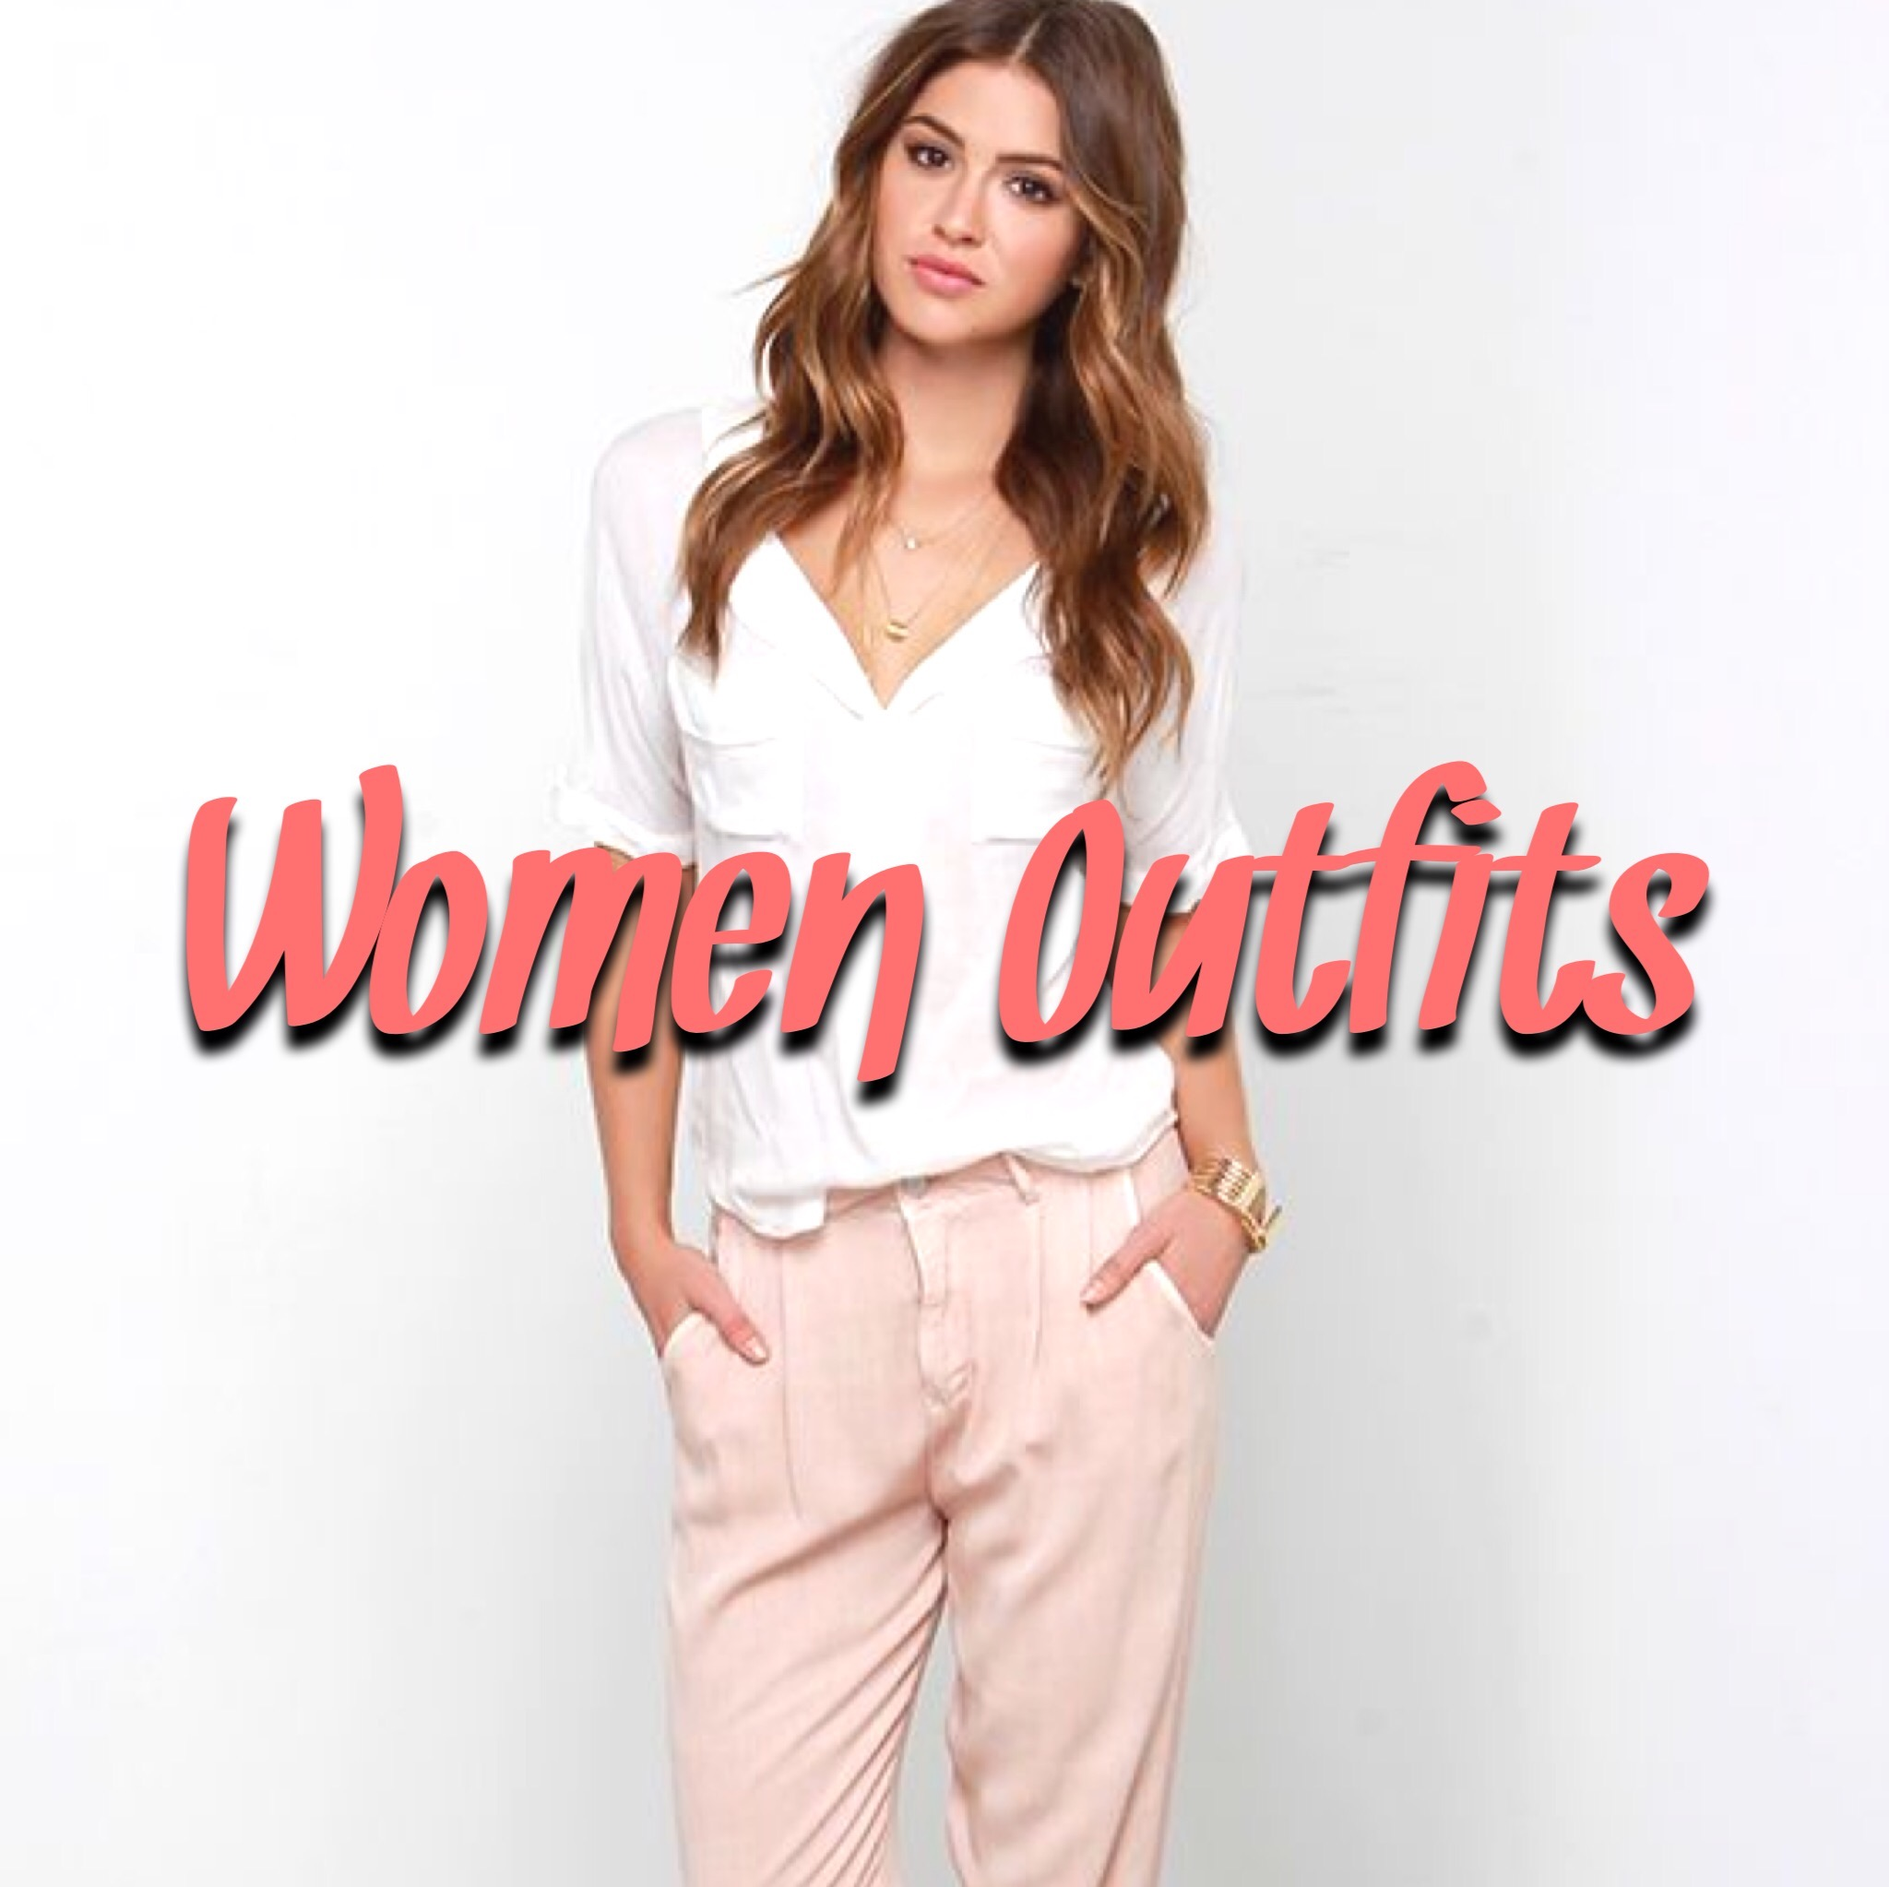
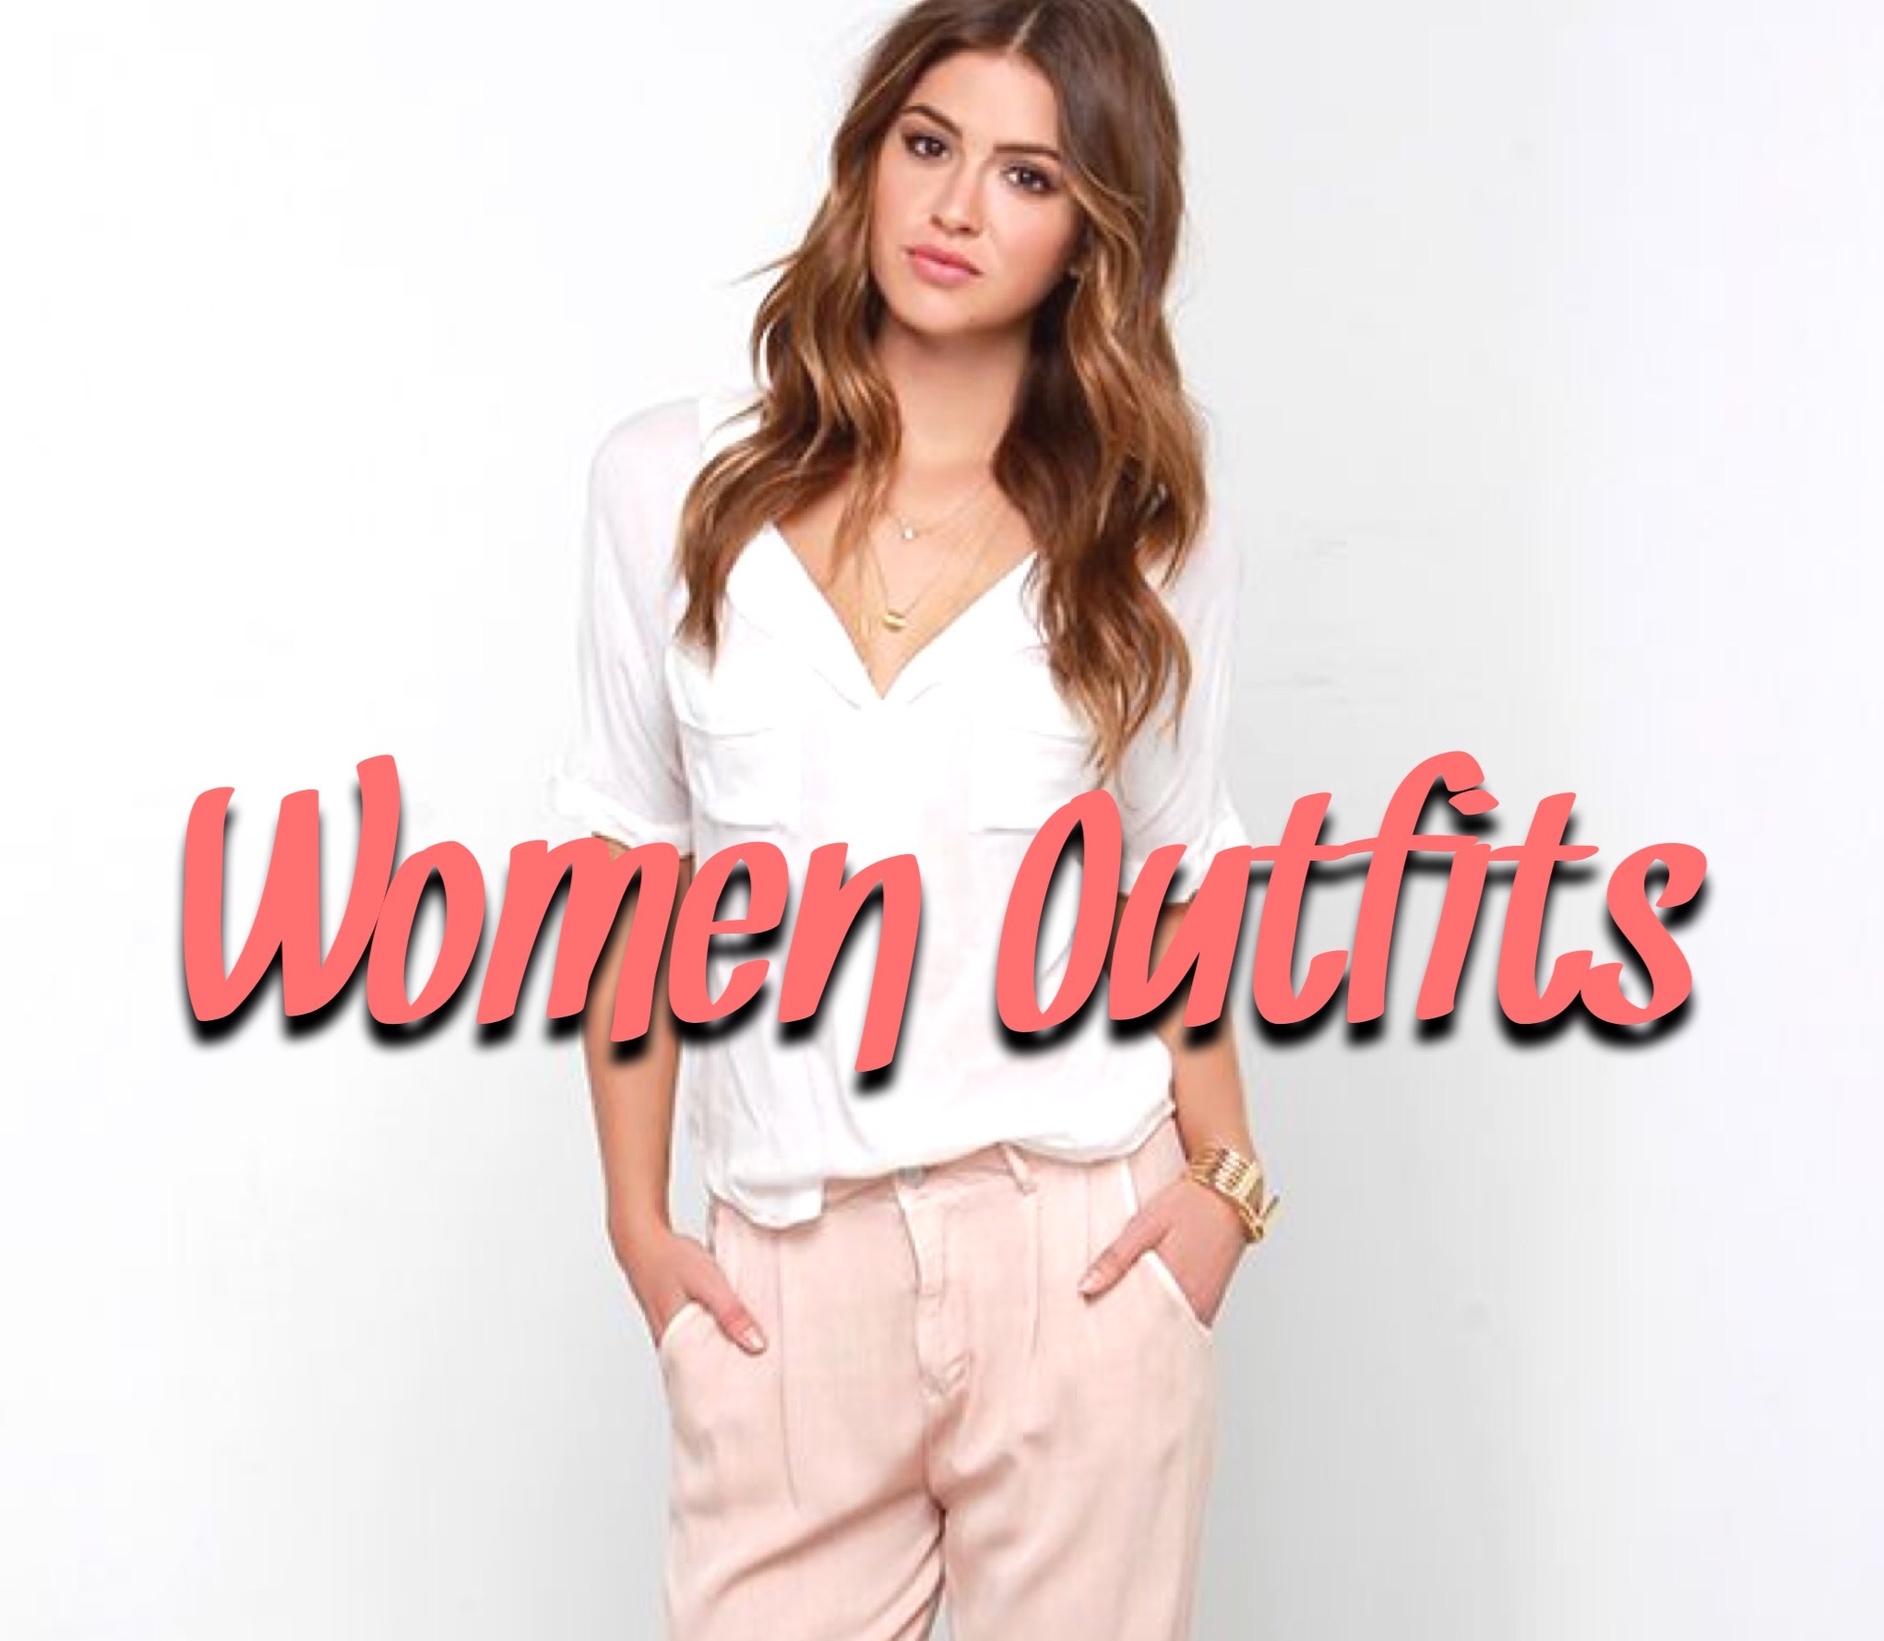
edited the about us page

Changed region(s): [[0.0926, 0.0618, 0.9256, 1.0], [0.4628, 0.0, 0.5553, 0.0309], [0.5862, 0.0, 0.617, 0.0309]]

diff --git a/html/about_us.html b/html/about_us.html
@@ -1,0 +1,82 @@
+<DOCTYPE ! html>
+<html>
+<head>  
+	<link rel="stylesheet" type="text/css" href="about_us.css">
+	<link href="https://fonts.googleapis.com/css?family=Lobster|Pattaya" rel="stylesheet">
+</head>
+<body>
+	
+
+<h1>About us/Contact us</h1>
+
+<h2>Maelani Lacandazon </h2>
+	<p> My name is Maelani Lacandazon but I go by Mae. I am a rising senior at Leadership Public School in Hayward, CA. I am 16 years old about to be 17 on September 2nd. I play two sports which is basketball and volleyball. I am the oldest of my 4 other siblings. Things I like to do for fun is go longboarding around my neighborhood or anywhere we go to, swimming, hanging out with friends/family and traveling. I heard about the Girls Who Code program by my mom's friend who's daughter did the program last year and recommended it to me. Adding on, I also heard about this program from my advisor who gave us a list of summer programs that we can do over the summer. </p>
+	<p> email: maemaelacan@gmail.com </p>
+	<div class="row">
+  <div class="col-md-5">
+    <a href="https://www.instagram.com/maelani.alyssa/" class="thumbnail" target="_blank">
+  	  <img src="instalogo.png"> 
+    </a>
+     
+    <a href="https://twitter.com/maemaelacan?lang=en" class="thumbnail" target="_blank">
+      <img src="twitterlogo.png">
+    </a>
+    <a href="https://www.linkedin.com/in/maelani-l-05a752122?authType=NAME_SEARCH&authToken=mBJ2&locale=en_US&trk=tyah&trkInfo=clickedVertical%3Amynetwork%2CclickedEntityId%3A509466310%2CauthType%3ANAME_SEARCH%2Cidx%3A1-2-2%2CtarId%3A1470240701939%2Ctas%3Ama" class="thumbnail" target="_blank">
+      <img src="linkedin.png">
+    </a>
+    <a href="https://www.facebook.com/maelani.lacandazon?fref=ts" class="thumbnail" target="_blank">
+      <img src="fblogo.jpg">
+    </a>
+  </div>
+
+<h2>Alexandra Martin</h2>
+	<p>My name is Alexandra Martin but I go by Alexa. I'm going to be a rising junior at Lighthouse Community Charter School which is located in Oakland and am currently 15 years old. I'm part of a family of 5 which includes myself, my two siblings, and my parents. I heard abo
+
+
+
+
+		ut GWC through my sister because she attended this program a couple years ago. I decided to apply because my sister recommended it to me and I wanted to explore my interest in STEM.</p>
+	<p> email: maralexatin@gmail.com</p>
+	<div class="row">
+  <div class="col-md-4"> 
+    <a href="https://www.instagram.com/alexa_martian/" class="thumbnail" target="_blank">
+      <img src="instalogo.png">
+    </a>
+    <a href="https://www.facebook.com/alexa.martin.505" class="thumbnail" target="_blank">
+      <img src="fblogo.jpg">
+    </a>
+    <a href="https://www.linkedin.com/in/alexandra-m-39b752122?trk=nav_responsive_tab_profile_pic" class="thumbnail" target="_blank">
+      <img src="linkedin.png">
+    </a>
+  </div>
+<h2>Mallory Mallari</h2>
+	<p> My name is Mallory Mallari.....</p>
+	<p> email: malloryjmallari@gmail.com</p>
+
+<div class="row">
+  <div class="col-md-5"> 
+    <a href="https://www.instagram.com/malluhhrie/" class="thumbnail" target="_blank">
+      <img src="instalogo.png">
+    </a>
+    <a href="https://www.linkedin.com/in/mallory-m-655191107?authType=NAME_SEARCH&authToken=lEOM&locale=en_US&trk=tyah&trkInfo=clickedVertical%3Amynetwork%2CclickedEntityId%3A451321697%2CauthType%3ANAME_SEARCH%2Cidx%3A1-3-3%2CtarId%3A1470205757427%2Ctas%3Ama" class="thumbnail" target="_blank">
+      <img src="linkedin.png">
+    </a>
+     <a href="https://www.facebook.com/profile.php?id=100006233235587&fref=ts" class="thumbnail" target="_blank">
+      <img src="fblogo.jpg">
+    </a>
+     <a href="https://twitter.com/mallorymallari" class="thumbnail" target="_blank">
+      <img src="twitterlogo.png">
+    </a>
+  </div>
+<h2>Daisy Juarez</h2>
+	<p>My name is Daisy Juarez, i am 16 years old, and I will be a junior at Monterey Bay Academy.  I found out about GWC by searching up coding summer programs online.
+	<p>email: daisyjuarez26@yahoo.com</p>
+	<div class="row">
+  <div class="col-md-2"> 
+    <a href="daisyjuarez26@yahoo.com" class="thumbnail">
+    </a>
+
+
+
+</body>
+</html>

diff --git a/where_to_shop.html b/where_to_shop.html
@@ -8,8 +8,7 @@
   <script src="https://ajax.googleapis.com/ajax/libs/jquery/1.12.4/jquery.min.js"></script>
   <script src="http://maxcdn.bootstrapcdn.com/bootstrap/3.3.6/js/bootstrap.min.js"></script>
   <script src="js/where_to_shop.js"></script>
-</head>
-  
+</head> 
 
 <body>
 <nav class="navbar navbar-default navbar-fixed-top">
@@ -44,49 +43,49 @@
 <h1> Where To Shop</h1>
 <div class="row">
   <div class="col-md-3"> 
-    <a href="http://www.forever21.com/" class="thumbnail">
+    <a href="http://www.forever21.com/" class="thumbnail" target="_blank">
       <img class="img-responsive" src="photos/alexas_images/F21.jpg" style="width:150px;height:150px">
     </a>
-    <a href="http://www.hm.com/us/" class="thumbnail">
+    <a href="http://www.hm.com/us/" class="thumbnail" target="_blank">
       <img src="photos/alexas_images/HM.jpg" style="width:150px;height:150px" >
     </a>
-    <a href="http://cottonon.com/US/" class="thumbnail">
+    <a href="http://cottonon.com/US/" class="thumbnail" target="_blank">
       <img src="photos/alexas_images/CottonOn.jpg" style="width:150px;height:150px">
     </a>
   </div>
 
     <div class="col-md-3" >
-      <a href="http://www.pacsun.com/" class="thumbnail">
+      <a href="http://www.pacsun.com/" class="thumbnail" target="_blank">
         <img src="photos/alexas_images/PacSunLogo.jpg" style="width:150px;height:150px" >
       </a> 
-      <a href="https://www.missguidedus.com/" class="thumbnail">
+      <a href="https://www.missguidedus.com/" class="thumbnail" target="_blank">
         <img src="photos/alexas_images/missguided.jpg" style="width:150px;height:150px">
       </a> 
-      <a href=" http://www.menswearhouse.com/" class="thumbnail">
+      <a href=" http://www.menswearhouse.com/" class="thumbnail" target="_blank">
         <img src="photos/alexas_images/MensWearhouse.jpeg" style="width:150px;height:150px" >
       </a>  
     </div>
       
     <div class="col-md-3">
-      <a href="http://www.gap.com/" class="thumbnail">
+      <a href="http://www.gap.com/" class="thumbnail" target="_blank">
         <img src="photos/alexas_images/Gap.jpg" style="width:150px;height:150px">
       </a>
-      <a href="http://us.topman.com/?geoip=home" class="thumbnail">
+      <a href="http://us.topman.com/?geoip=home" class="thumbnail" target="_blank">
         <img src="photos/alexas_images/Topman.jpg" style="width:150px;height:150px">
       </a>
-      <a href="http://www.levi.com/US/en_US/" class="thumbnail">
+      <a href="http://www.levi.com/US/en_US/" class="thumbnail" target="_blank">
         <img src="photos/alexas_images/Levis.jpg" style="width:150px;height:150px">
       </a>
     </div>
 
     <div class="col-md-3">
-      <a href="http://www.oldnavy.com/" class="thumbnail">
+      <a href="http://www.oldnavy.com/" class="thumbnail" target="_blank">
         <img src="photos/alexas_images/OldNavy.jpg" style="width:150px;height:150px">
       </a>  
-      <a href="http://www.urbanoutfitters.com/urban/index.jsp" class="thumbnail">
+      <a href="http://www.urbanoutfitters.com/urban/index.jsp" class="thumbnail" target="_blank">
         <img src="photos/alexas_images/UO.jpg" style="width:150px;height:150px">
       </a>  
-      <a href="http://www1.macys.com/" class="thumbnail">
+      <a href="http://www1.macys.com/" class="thumbnail" target="_blank">
         <img src="photos/alexas_images/Macys.jpg" style="width:150px;height:150px">
       </a>
     </div>

diff --git a/lookbookmen.html b/lookbookmen.html
@@ -1,37 +1,57 @@
 <DOCTYPE! html>
 <html>
 <head>
-	<title>Weather To Wear.</title>
+	<title>Weather To Wear</title>
 	<meta name="viewport" content="width=device-width, initial-scale=1">
 	<link rel="stylesheet" href="http://maxcdn.bootstrapcdn.com/bootstrap/3.3.6/css/bootstrap.min.css">
   	<link rel="stylesheet" href="css/index.css"></link>
   	<script src="https://ajax.googleapis.com/ajax/libs/jquery/1.12.4/jquery.min.js"></script>
   	<script src="http://maxcdn.bootstrapcdn.com/bootstrap/3.3.6/js/bootstrap.min.js"></script>
 	<script src="js/catagories_men.js"></script>
-	<link rel="stylesheet" href="css/index.css"></link>
 </head>
-	
+	<link rel= "stylesheet" href="css/categories.css"></link>
+	<link rel="stylesheet" href="http://maxcdn.bootstrapcdn.com/bootstrap/3.3.6/css/bootstrap.min.css">
+	<script src="https://ajax.googleapis.com/ajax/libs/jquery/1.12.4/jquery.min.js"></script>
+  	<script src="http://maxcdn.bootstrapcdn.com/bootstrap/3.3.6/js/bootstrap.min.js"></script>
 <body>
-<h1> Lookbook </h1>
-	<img src ="photos/men/cover_image1.PNG" class="thumbnail">
-<table>
-	<tr>
-	<td><img src="photos/maelanis_images/men/image1.jpg" class="pictures"></td>
-	<td><p align="center"><img src="photos/maelanis_images/men/image2.jpg" class="pictures"></td>
-	<td align="right"><img src="photos/maelanis_images/men/image3.jpg" class="pictures"></td>
-	</tr>
-<table>
-	<tr>
-		<td><img src="photos/maelanis_images/men/image4.jpg" class="picture"></td>
-		<td><p align="center"><img src="photos/maelanis_images/men/image5.jpg" class="picture1"></td>
-		<td align="right"><img src="photos/maelanis_images/men/image6.jpg" class="picture"></td>
-	</tr>
-<table>
-	<tr>
-		<td><img src="photos/maelanis_images/men/image7.jpg" class="pics1"></td>
-		<td><p align="center"><img src="photos/maelanis_images/men/image8.jpg" class="pix1"></td>
-		<td align="right"><img src="photos/maelanis_images/men/image9.jpg" class="pix"></td>
-	</tr>
+
+<h1class=toptext<Lookbook</h1>
+
+
+<img src="photos/maelanis_images/men/cover_image1.png" class="mencover">
+
+<div class="container">
+   <button type="button" class="main1" data-toggle="collapse" data-target="#demo">Sunny</button>
+  <div id="demo1" class="collapse">
+
+  <img src="photos/maelanis_images/men/image1.jpg">
+  <img src="photos/maelanis_images/men/image2.jpg">
+  <img src="photos/maelanis_images/men/image3.jpg">
+   </div>
+</div>
+
+ <div class="container">
+   <button type="button" class="main1" data-toggle="collapse" data-target="#demo1">Rainy</button>
+  <div id="demo1" class="collapse">
+  <img src="photos/maelanis_images/men/image4.jpg">
+  <img src="photos/maelanis_images/men/image5.jpg">
+  <img src="photos/maelanis_images/men/image6.jpg">
+    </div>
+</div>
+
+ <div class="container">
+   <button type="button" class="main1" data-toggle="collapse" data-target="#demo2">Snowy</button>
+  <div id="demo2" class="collapse">
+  <img src="photos/maelanis_images/men/image7.jpg">
+  <img src="photos/maelanis_images/men/image8.jpg">
+  <img src="photos/maelanis_images/men/image9.jpg">
+    </div>
+</div>
+
+<div class="container">
+   <button type="button" class="main1" data-toggle="collapse" data-target="#demo2">Cloudy</button>
+  	<div id="demo2" class="collapse">
+  </div>
+  </div>		
 </body>
-
-
+</html>

diff --git a/lookbookwomen.html b/lookbookwomen.html
@@ -11,8 +11,9 @@
  
 <body>
 
-  <h1 class=toptext>Womans Outfits</h1>
+<h1 class=toptext>Womans Outfits</h1>
 
+<img src="photos/maelanis_images/women/women_cover_photo.jpeg" class="womencover">
 
  <div class="container">
    <button type="button" class="main1" data-toggle="collapse" data-target="#demo">Sunny Weather Outfits</button>
@@ -21,7 +22,9 @@
     <img src="photos/daisys_images/outfit1.jpg" />
     <img src="photos/daisys_images/outfit2.jpg" />
     <img src="photos/daisys_images/outfit3.jpg" />
-
+    <img src="images/personsunnyoutfit1.jpg" />
+    <img src="images/personsunnyoutfit2.jpg" />
+    <img src="images/personsunnyoutfit3.jpg" />
 
   <p class=suntext>Checkout these Sunny Weather Outfits</p>
   </div>
@@ -34,6 +37,9 @@
   <img src="photos/daisys_images/rainoutfit1.jpg">
   <img src="photos/daisys_images/rainoutfit2.jpg">
   <img src="photos/daisys_images/rainoutfit3.jpg">
+  <img src="images/personrainoutfit1.jpg" />
+  <img src="images/personrainoutfit2.jpg" />
+  <img src="images/personrainoutfit3.jpg" />
 
   <p class=suntext>Checkout these Rainy Weather Outfits</p>
    
@@ -46,6 +52,9 @@
   <img src="photos/daisys_images/snowoutfit1.jpg">
   <img src="photos/daisys_images/snowoutfit2.jpg">
   <img src="photos/daisys_images/snowoutfit3.jpg">
+  <img src="images/personsnowoutfit1.jpg" />
+  <img src="images/personsnowoutfit2.jpg" />
+  <img src="images/personsnowoutfit3.jpg" />
 
 
   <p class=suntext>Checkout these Snowy Weather Outfits</p>
@@ -60,6 +69,9 @@
   <img src="photos/daisys_images/cloudoutfit1.jpg">
   <img src="photos/daisys_images/cloudoutfit2.png">
   <img src="photos/daisys_images/cloudoutfit3.jpg">
+  <img src="images/personcloudoutfit1.jpg">
+  <img src="images/personcloudoutfit2.jpg">
+  <img src="images/personcloudoutfit3.jpg">
 
    
   <p class=suntext>Checkout these Cloudy Weather Outfits</p>

diff --git a/js/index.js b/js/index.js
@@ -7,6 +7,9 @@ $(document).ready(function(){
 			// debugger;
 			var temperature = data.main.temp;
 			var description = data.weather[0].description
+			// if (description == "mist") {
+			// 	$("body").append.url("http://openweathermap.org/img/w/10d.png")
+			// }
 			$("body").append("<div id ='weather'>" + "Temperature is:" + temperature + "</div>"); 
 			$("body").append("<div id='weather'>" + "It appears to be"  + description + "</div>");
 

diff --git a/css/categories.css b/css/categories.css
@@ -13,6 +13,16 @@
     cursor: pointer;*/*/*/
     background: purple;
  }
+ .womencover{
+    width:100%;
+    height:800px;
+ }
+ .mencover{
+    width:100%;
+    left: 50%;
+    margin-right: -50%;
+    transform: translate(-50%, -50%) }
+ }
 
  .collapse{
     position: center;

diff --git a/css/index.css b/css/index.css
@@ -60,9 +60,6 @@
     margin-bottom: 0;
     background-color: #2E294E;
     border: 0;
-    font-size: 11px !important;
-    letter-spacing: 4px;
-    opacity:0.9;
 }
 
 /* Add a gray color to all navbar links */

diff --git a/css/about_us.css b/css/about_us.css
@@ -1,0 +1,7 @@
+h1 {
+	text-align: center;
+	font-family: 'Lobster', cursive;
+}
+h2 {
+	text-align: center;
+}

diff --git a/html/about_us.css b/html/about_us.css
@@ -1,0 +1,3 @@
+h1{
+	text-align: center;
+}
